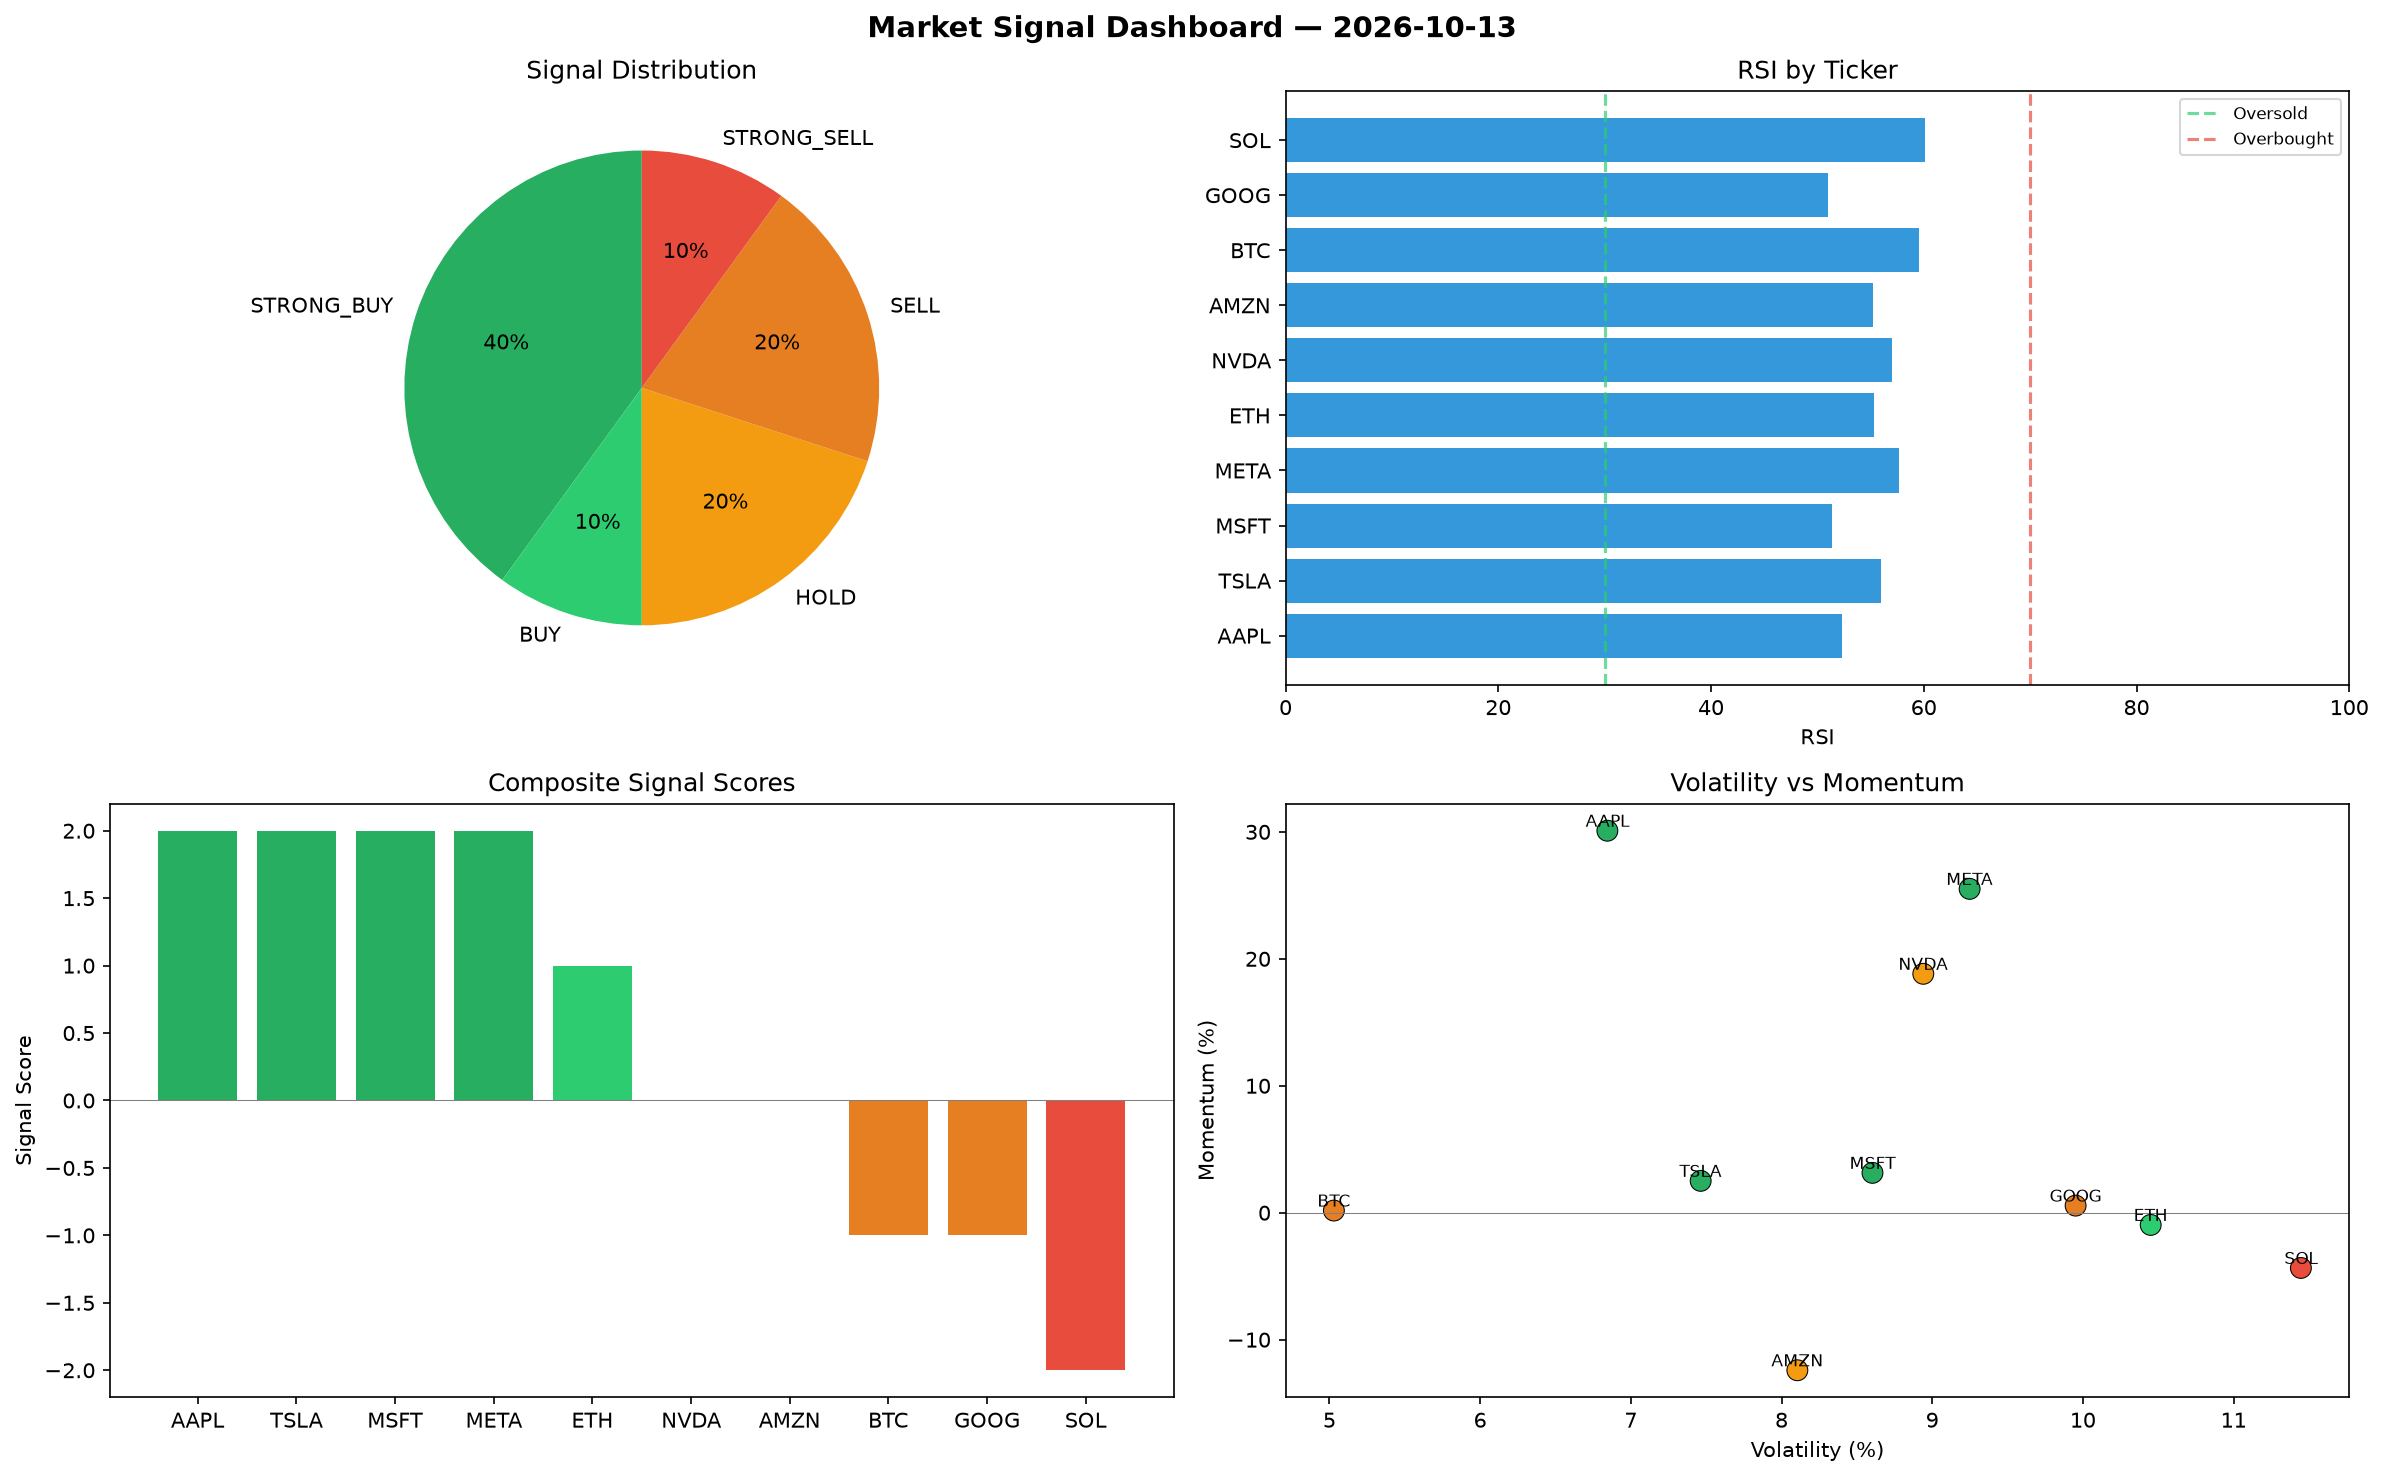
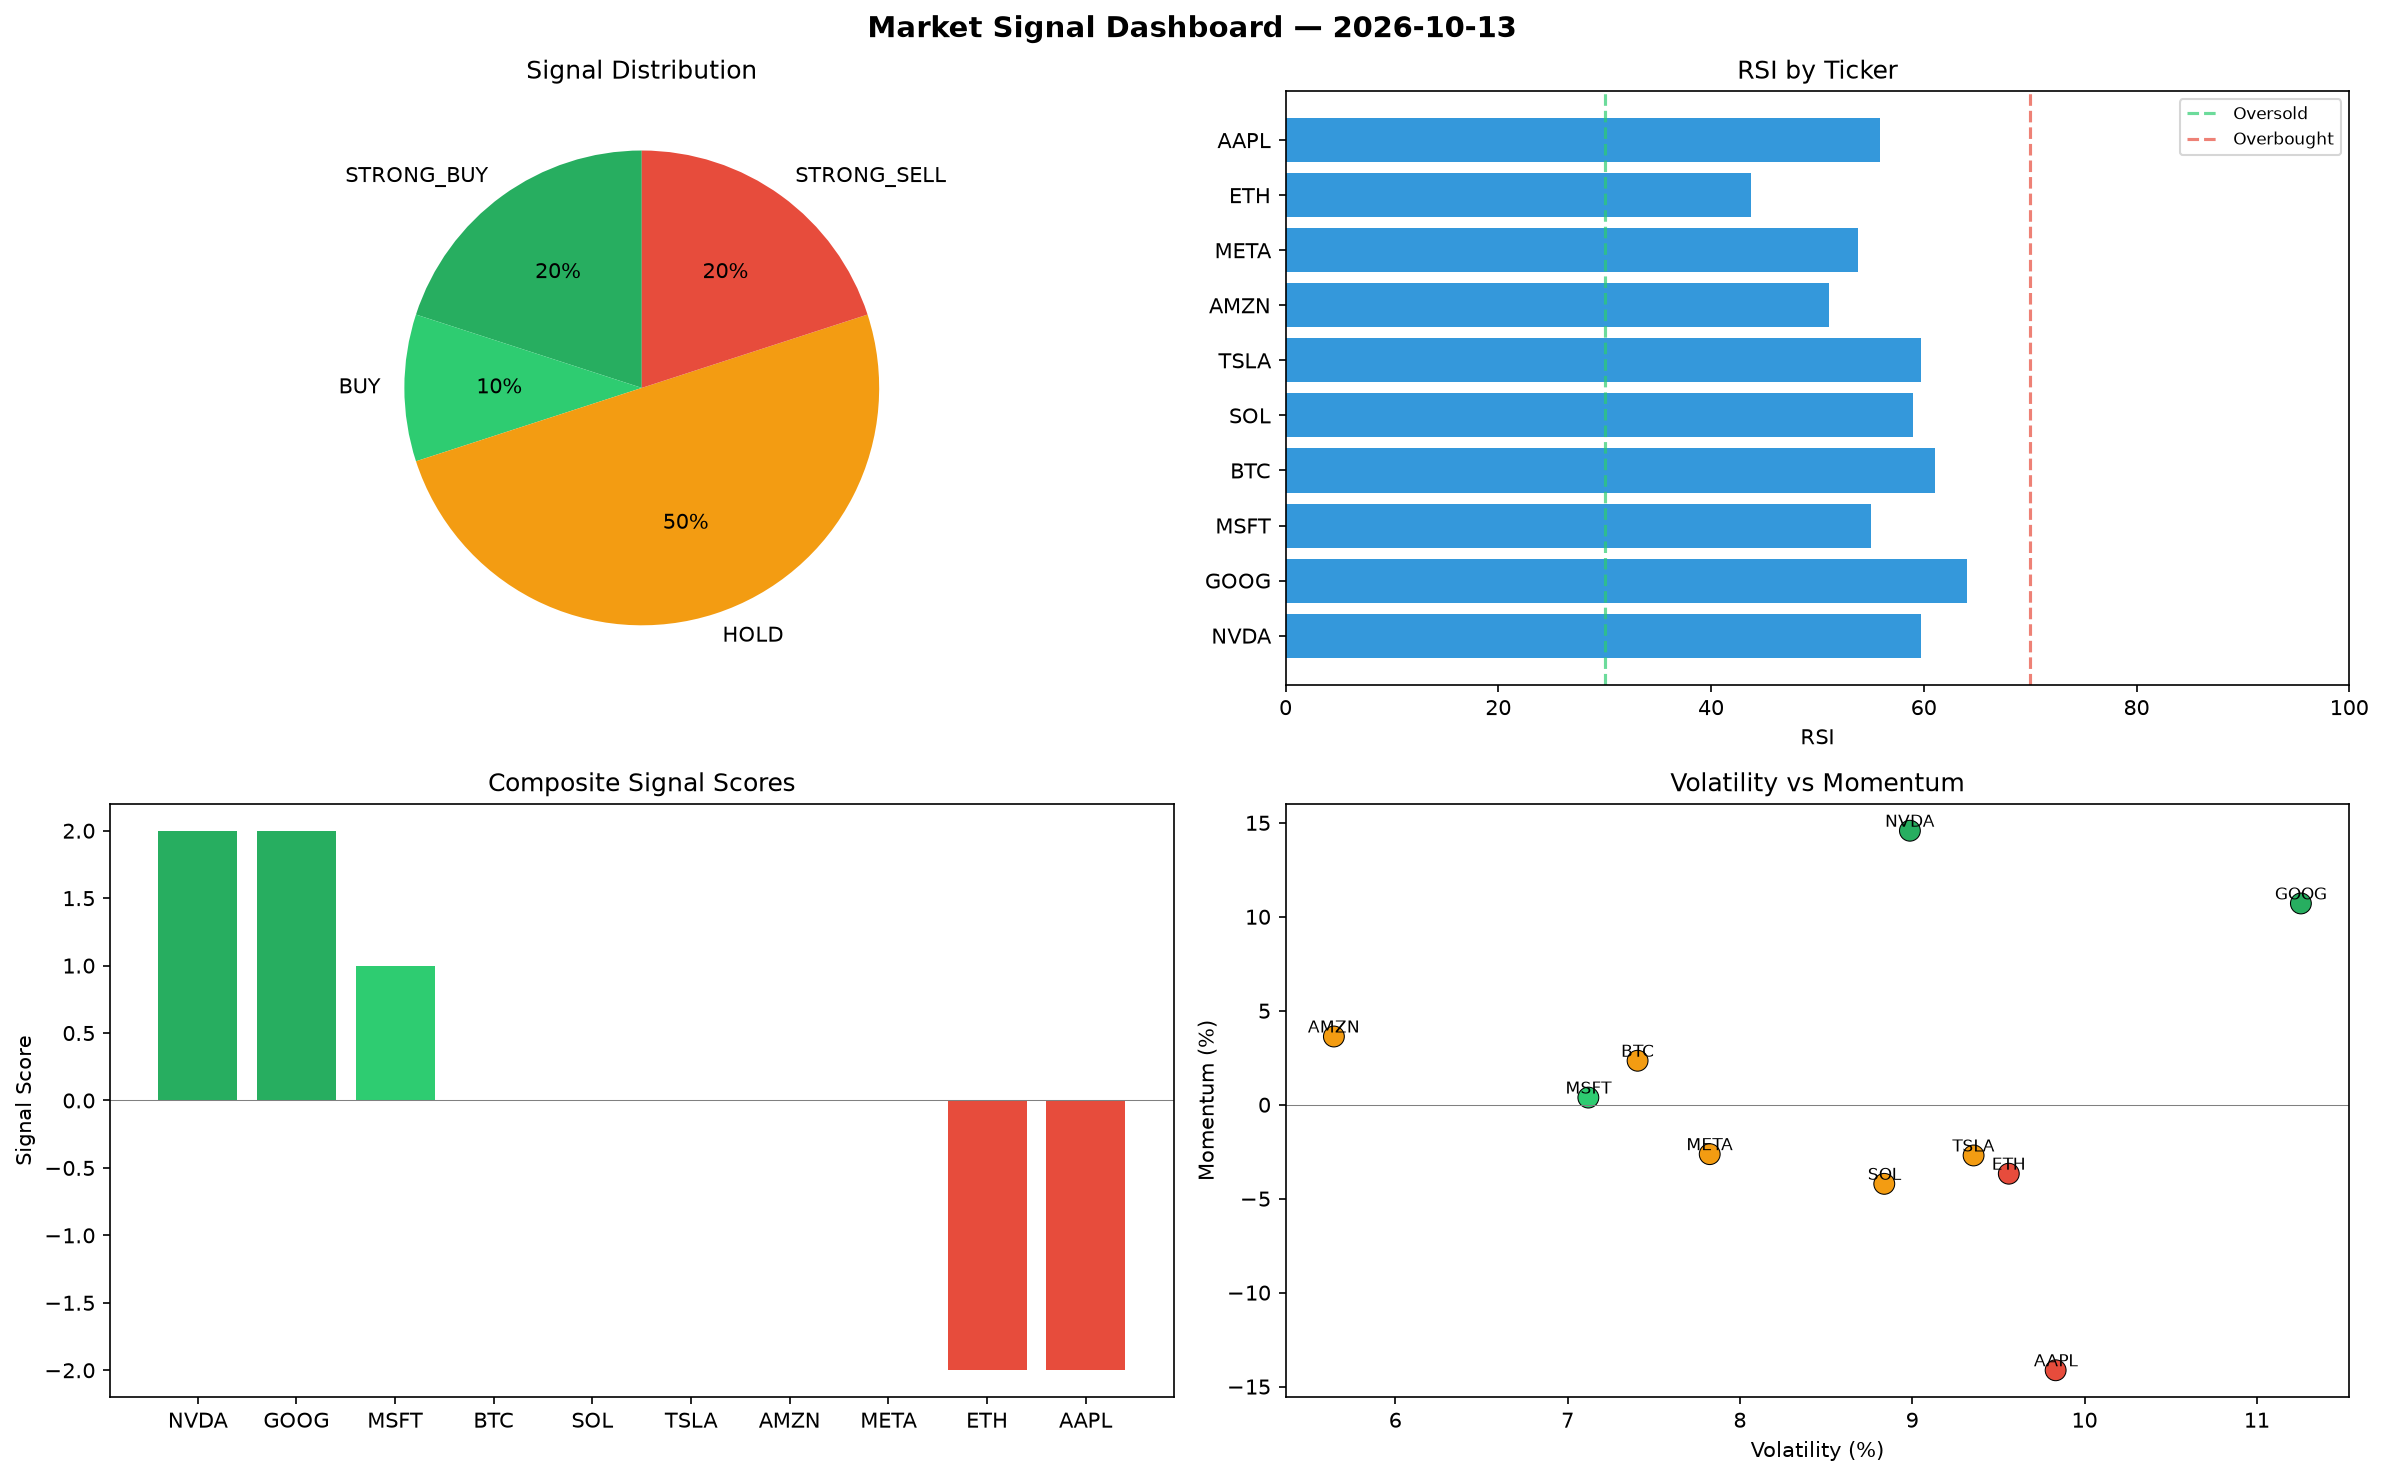
automated-bots: market signals 2026-10-13T16:12

diff --git a/logs/2026-10-13.md b/logs/2026-10-13.md
@@ -1,6 +1,6 @@
 # Market Signal Report — 2026-10-13
 
-**Run ID:** `7a405dd505` | **Buy:** 5 | **Sell:** 3 | **Hold:** 2
+**Run ID:** `431405f48f` | **Buy:** 3 | **Sell:** 2 | **Hold:** 5
 
 ![Dashboard](2026-10-13_dashboard.png)
 
@@ -8,28 +8,28 @@
 
 | Ticker | Price | Signal | Score | RSI | Momentum | Confidence |
 |--------|-------|--------|-------|-----|----------|------------|
-| AAPL | $3049.56 | **STRONG_BUY** | 2 | 52.35 | 0.3009 | 0.5 |
-| TSLA | $3675.82 | **STRONG_BUY** | 2 | 56.01 | 0.0251 | 0.5 |
-| MSFT | $2365.62 | **STRONG_BUY** | 2 | 51.35 | 0.0314 | 0.5 |
-| META | $4056.97 | **STRONG_BUY** | 2 | 57.68 | 0.2551 | 0.5 |
-| ETH | $1392.9 | **BUY** | 1 | 55.33 | -0.0096 | 0.25 |
-| NVDA | $4796.96 | **HOLD** | 0 | 57.03 | 0.1882 | 0.0 |
-| AMZN | $4308.46 | **HOLD** | 0 | 55.23 | -0.1241 | 0.0 |
-| BTC | $3010.64 | **SELL** | -1 | 59.59 | 0.0017 | 0.25 |
-| GOOG | $1028.64 | **SELL** | -1 | 51.0 | 0.0056 | 0.25 |
-| SOL | $2920.17 | **STRONG_SELL** | -2 | 60.16 | -0.0435 | 0.5 |
+| NVDA | $2342.28 | **STRONG_BUY** | 2 | 59.74 | 0.1458 | 0.5 |
+| GOOG | $401.27 | **STRONG_BUY** | 2 | 64.05 | 0.1071 | 0.5 |
+| MSFT | $4280.47 | **BUY** | 1 | 55.03 | 0.0038 | 0.25 |
+| BTC | $358.39 | **HOLD** | 0 | 61.09 | 0.0234 | 0.0 |
+| SOL | $1232.14 | **HOLD** | 0 | 58.96 | -0.0421 | 0.0 |
+| TSLA | $4670.63 | **HOLD** | 0 | 59.7 | -0.027 | 0.0 |
+| AMZN | $3670.89 | **HOLD** | 0 | 51.07 | 0.0363 | 0.0 |
+| META | $4288.48 | **HOLD** | 0 | 53.82 | -0.0263 | 0.0 |
+| ETH | $170.23 | **STRONG_SELL** | -2 | 43.76 | -0.0367 | 0.5 |
+| AAPL | $3483.18 | **STRONG_SELL** | -2 | 55.91 | -0.1413 | 0.5 |
 
 ## Delta vs Yesterday
 
 | Ticker | Today | Yesterday | Price Change | Signal Changed |
 |--------|-------|-----------|-------------|----------------|
-| AAPL | STRONG_BUY | STRONG_SELL | 📉 -25.36% | ⚠ YES |
-| TSLA | STRONG_BUY | HOLD | 📈 118.28% | ⚠ YES |
-| MSFT | STRONG_BUY | STRONG_SELL | 📉 -38.92% | ⚠ YES |
-| META | STRONG_BUY | HOLD | 📈 479.65% | ⚠ YES |
-| ETH | BUY | SELL | 📉 -52.04% | ⚠ YES |
-| NVDA | HOLD | STRONG_SELL | 📈 5.15% | ⚠ YES |
-| AMZN | HOLD | BUY | 📉 -3.25% | ⚠ YES |
-| BTC | SELL | STRONG_BUY | 📈 264.31% | ⚠ YES |
-| GOOG | SELL | STRONG_SELL | 📉 -8.19% | ⚠ YES |
-| SOL | STRONG_SELL | HOLD | 📉 -39.66% | ⚠ YES |
+| NVDA | STRONG_BUY | STRONG_SELL | 📉 -48.65% | ⚠ YES |
+| GOOG | STRONG_BUY | STRONG_SELL | 📉 -64.18% | ⚠ YES |
+| MSFT | BUY | STRONG_SELL | 📈 10.52% | ⚠ YES |
+| BTC | HOLD | STRONG_BUY | 📉 -56.63% | ⚠ YES |
+| SOL | HOLD | HOLD | 📉 -74.54% | — |
+| TSLA | HOLD | HOLD | 📈 177.35% | — |
+| AMZN | HOLD | BUY | 📉 -17.57% | ⚠ YES |
+| META | HOLD | HOLD | 📈 512.73% | — |
+| ETH | STRONG_SELL | SELL | 📉 -94.14% | ⚠ YES |
+| AAPL | STRONG_SELL | STRONG_SELL | 📉 -14.75% | — |
